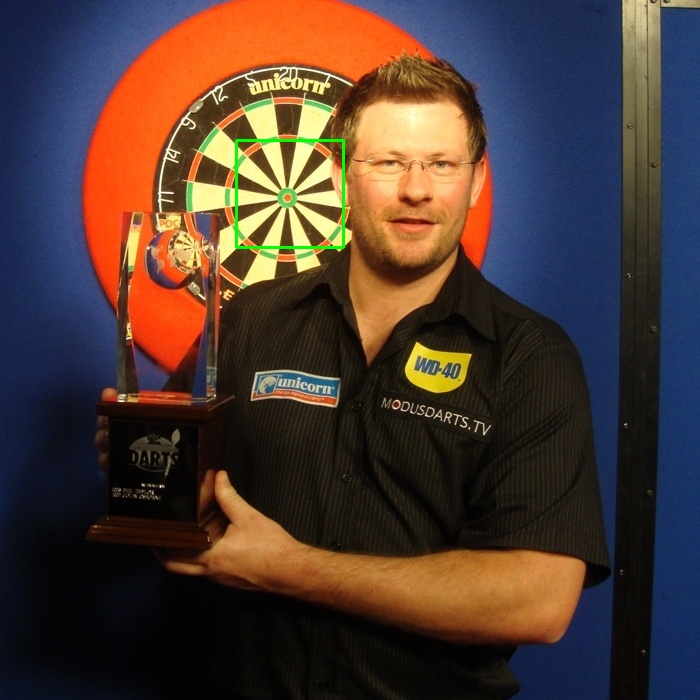
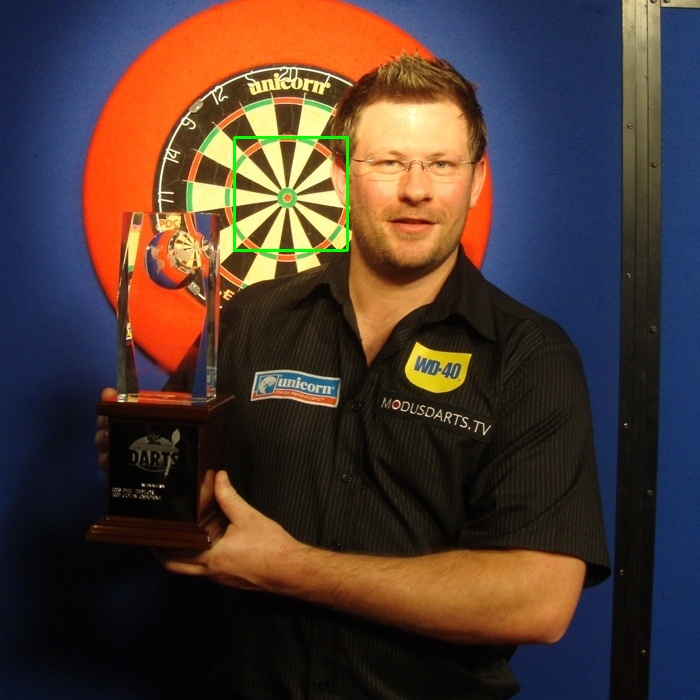
printing all lines circles and rects now works

Changed region(s): [[0.33, 0.18, 0.51, 0.36]]

diff --git a/csv2.cpp b/csv2.cpp
@@ -116,6 +116,25 @@ void write_images(vector<vector<string> > data, vector<vector<Rect> > rect_vecto
     }
 }
 
+void write_hough_info(string image, vector<Circle> circles, vector<Line> lines, vector<Rect> rects) {
+    Mat frame = imread("darts/" + image, CV_LOAD_IMAGE_COLOR);
+    for (int i = 0; i < circles.size(); i++) {
+        Circle c = circles.at(i);
+        circle(frame, c.getCenter(), c.radius, Scalar(0, 255, 255), 2);
+    }
+    for (int i = 0; i < lines.size(); i++) {
+        double m = lines.at(i).m;
+        double c = lines.at(i).c;
+        Point p1(200, round(m * 200 + c));
+        Point p2(300, round(m * 300 + c));
+        fullLine(frame, p1, p2, Scalar(255, 255, 0), m);
+    }
+    for (int i = 0; i < rects.size(); i++) {
+        rectangle(frame, rects.at(i), Scalar(0, 255, 0), 2);
+    }
+    imwrite("subtask3/everything" + image, frame);
+}
+
 void write_both_images(vector<vector<string> > data) {
     vector<vector<Rect> > truth_rects = find_truth_rects(data);
     vector<vector<Rect> > detected_rects = find_detected_rects(data);
@@ -246,6 +265,7 @@ int main(int n, char **args) {
         vector<Line> lines = houghTransformLines(image_name, grad_mag, grad_dir, 230.0);
         vector<Circle> circles = HoughTransformCircles(image_name, grad_mag, grad_dir, 230.0);
         vector<Rect> filtered_rects = filterRects(detected_rects.at(i), circles, lines);
+        write_hough_info(data.at(i).at(0), circles, lines, filtered_rects);
         rects.push_back(filtered_rects);
         cout << "image " << i << " done.\n";
     }

diff --git a/circle.cpp b/circle.cpp
@@ -1,20 +1,22 @@
 #include <iostream>
-using namespace std; 
+#include <opencv/cv.hpp>
 
-class Circle
-{
-      private:
-      
-      public:
-            int x, y, radius;      
+using namespace std;
+using namespace cv;
 
+class Circle {
+    private:
+    public:
+    int x, y, radius;
 
-             
-             Circle(int x, int y, int r)  {
-             	this->x = x;
-             	this->y = y;
-             	this->radius = r;
-             }
-        
-             
+    Circle(int x, int y, int r) {
+        this->x = x;
+        this->y = y;
+        this->radius = r;
+    }
+
+    Point getCenter() {
+        return Point(x,y);
+    }
+
 };

diff --git a/Line.cpp b/Line.cpp
@@ -1,19 +1,13 @@
 #include <iostream>
-using namespace std; 
+using namespace std;
 
-class Line
-{
-      private:
-      
-      public:
-            int m, c;      
+class Line {
+    private:
+    public:
+    double m, c;
 
-
-             
-             Line(int m, int c)  {
-             	this->m = m;
-             	this->c = c;
-             }
-        
-             
+    Line(double m, double c) {
+        this->m = m;
+        this->c = c;
+    }
 };
